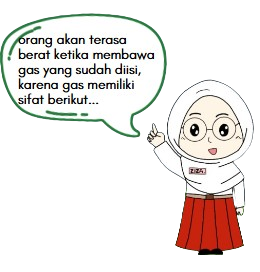
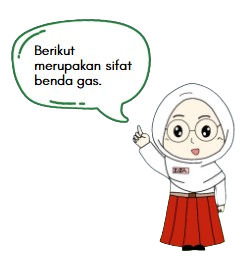
add

Changed region(s): [[0.0, 0.0304, 0.9876, 0.9734]]

diff --git a/components/materi/sifatGasSection.tsx b/components/materi/sifatGasSection.tsx
@@ -156,7 +156,7 @@ const SifatGasSection = () => {
                     <Image src="/materi/gas/desc-3.png" alt="" width={500} height={300} />
                   </motion.div>
                   <motion.div
-                    className=" fixed bottom-0 z-10 right-8"
+                    className=" fixed bottom-0 z-10 right-16"
                     initial={{ x: 300, opacity: 0 }}
                     animate={{ x: 0, opacity: 1 }}
                     transition={{
@@ -201,9 +201,9 @@ const SifatGasSection = () => {
                         duration: 1,
                         delay: 1.1,
                       }}
-                      className="fixed bottom-0 right-0 z-10 "
+                      className="fixed bottom-0 right-16 z-10 "
                     >
-                      <Image src="/materi/gas/zizah-5.png" alt="" width={300} height={100} className="" />
+                      <Image src="/materi/gas/zizah-4.png" alt="" width={300} height={100} className="" />
                     </motion.div>
 
                     <motion.div

diff --git a/components/section/materialSection.tsx b/components/section/materialSection.tsx
@@ -92,6 +92,18 @@ const MaterialSection = () => {
             <Image src="/icon/home.png" alt="Home" width={70} height={60} />
           </motion.button>
         </motion.div>
+        <motion.div
+          initial={{ x: -300, opacity: 0 }}
+          animate={{ x: 0, opacity: 1 }}
+          transition={{
+            duration: 1,
+            delay: 1.1,
+          }}
+          className="fixed bottom-0 left-16"
+        >
+          <Image src="/icon/left-menu-materi.png" alt="" className="hidden md:block" width={350} height={200} />
+          <Image src="/icon/left-menu-materi.png" alt="" className="block md:hidden" width={150} height={70} />
+        </motion.div>
       </div>
     </>
   );
